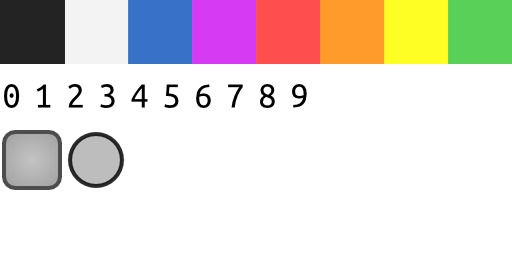
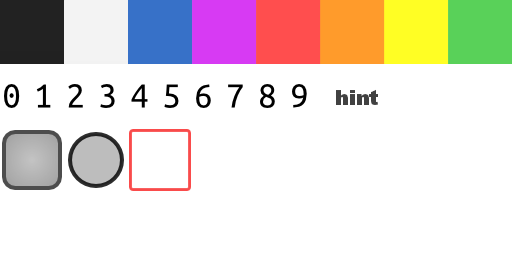
hint and ui modify

Changed region(s): [[0.25, 0.5, 0.375, 0.75], [0.6562, 0.3438, 0.75, 0.4062]]

diff --git a/app/src/board.js b/app/src/board.js
@@ -3,17 +3,19 @@ function Tile(board, color, i, j) {
     this.color = color;
     this.i = i;
     this.j = j;
+    this.highLight = null;
 }
 
 Tile.prototype.init = function(board) {
     var tile = this;
     var img = Stage.image(this.getImage()).pin({
-        handle: 0.5,
-        scale: 0.12
+        // handle: 0.5,
+        // scale: 0.12,
     }).on(Mouse.CLICK, function(point) {
         tile.click(tile);
+        tile.setHighLight(false);
     });
-    img.appendTo(board).offset(tile.i * 2 + 1, tile.j * 2 + 1);
+    img.appendTo(board);
     this.img = img;
 };
 
@@ -27,6 +29,16 @@ Tile.prototype.toggle = function() {
     this.updateView();
 };
 
+Tile.prototype.setHighLight = function(active) {
+    if (active) {
+        !this.highLight && (this.highLight = Stage.image("example:highLight").appendTo(this.img).scale(1.1).pin({"align":0.5}));
+    }
+    else if (this.highLight) {
+        this.img.remove(this.highLight);
+        this.highLight = null;
+    }
+}
+
 Tile.prototype.updateView = function() {
     this.img.image(this.getImage());
 };
@@ -36,21 +48,18 @@ Tile.prototype.getImage = function() {
 }
 
 function Board(stage, width, height, x, y) {
-    this.obj = Stage.create().appendTo(stage).pin({
-        width: width * 2,
-        height: height * 2,
+    this.obj = Stage.image('example:blue').appendTo(stage).pin({
         offsetX: x,
         offsetY: y,
-        scaleX: 0.8,
-        scaleY: 0.8,
-        align: 0.5
+        scale: 1,
+        align: 0.5,
     });
-    Stage.image('example:blue').appendTo(this.obj).pin({
-        alignX: 0.5,
-        alignY: 0.5,
+    this.board = Stage.create().appendTo(this.obj).pin({
+        width: this.obj.pin("width"),
+        height: this.obj.pin("height"),
+        align: 0.5,
         handleY: 0.5,
-        scaleX: 1.05 * width / 8,
-        scaleY: 1.05 * height / 8,
+        scale : 0.96,
     });
     this.width = width;
     this.height = height;
@@ -86,16 +95,28 @@ Board.prototype.setTile = function(i, j, tile) {
     this.tiles.push(tile);
 }
 
+Board.prototype.setHighLight = function(i, j, highLight) {
+    var tile = this.tilesMap[i + ":" + j];
+    tile && tile.setHighLight(highLight);
+}
+
 Board.prototype.initTiles = function() {
     for (var i = this.tiles.length - 1; i >= 0; --i) {
         this.tiles[i].img.remove();
     }
     this.tiles = [];
     this.tilesMap = {};
-    for (var i = 0; i < this.width; i++) {
-        for (var j = 0; j < this.height; j++) {
+    var spacing = 0.1;
+    var scale = 1 / (this.width + (this.width - 1) * spacing);
+    for (var i = 0; i < this.height; i++) {
+        for (var j = 0; j < this.width; j++) {
             var tile = new Tile(this, 1, i, j);
-            tile.init(this.obj);
+            tile.init(this.board);
+            tile.img.scale(scale);
+            var tw = tile.img.pin("width");
+            var x = scale * ((1 + spacing) * tw * tile.i);
+            var y = scale * ((1 + spacing) * tw * tile.j);
+            tile.img.offset(x, y);
             this.setTile(i, j, tile);
         }
     }

diff --git a/app/game.js b/app/game.js
@@ -1,6 +1,8 @@
 var Math = Stage.Math,
     Mouse = Stage.Mouse;
 
+DEBUG = false;
+
 function Game(stage, width, height) {
 
     this.leftBoard = new Board(stage, width, height, -8, 0);
@@ -16,6 +18,17 @@ function Game(stage, width, height) {
         offsetY: 0.5
     }).on(Mouse.CLICK, function() {
         game.start();
+    });
+
+    Stage.image('example:hint').appendTo(this.rightBoard.obj).pin({
+        alignX: 1,
+        alignY: 1,
+        handleY: 0,
+        offsetX: -2,
+        offsetY: 1,
+        scale : 0.15,
+    }).on(Mouse.CLICK, function() {
+        game.hintClick();
     });
 
     this.start = function() {
@@ -36,6 +49,20 @@ function Game(stage, width, height) {
     this.setPazzleClick = function(tile) {
         tile.toggle();
     }
+
+    this.hintClick = function() {
+        var solver = new Solver();
+        var n = 8;
+        var b = new Array(n * n);
+        b.fill(0);
+        for (var i = 0; i< this.leftBoard.tiles.length; ++i) {
+            b[i] = this.leftBoard.tiles[i].color == 2 ? 1 : 0;
+        }
+        var result = solver.solve(n, b);
+        for (var i = 0; i < result.length; ++i) {
+            this.rightBoard.tiles[i].setHighLight(result[i] == 1);
+        }
+    }
 }
 
 Stage(function(stage) {
@@ -49,11 +76,4 @@ Stage(function(stage) {
     var game = new Game(stage, width, height);
 
     game.start();
-
-    var solver = new Solver();
-    var n = 6;
-    var b = new Array(n * n);
-    b.fill(1) ;
-    solver.solve(n, b);
-
 });

diff --git a/app/src/solver.js b/app/src/solver.js
@@ -32,8 +32,10 @@ Solver.prototype.gauss = function(a, rows, cols) {
             }
         }
     }
-    for (var r = 0; r < rows; ++r) {
-        console.log(a[r].join(","));
+    if (DEBUG) {
+        for (var r = 0; r < rows; ++r) {
+            console.log(a[r].join(","));
+        }
     }
     // 反向回代
     var equations = rows;
@@ -79,13 +81,16 @@ Solver.prototype.solve = function (n, b) {
         if (j < n - 1) a[r][r + 1] = 1; // i * n + (j + 1)
         a[r][cols - 1] = b[r];
     }
-    for (var r = 0; r < rows; ++r) {
-        console.log(a[r].join(","));
+    if (DEBUG) {
+        for (var r = 0; r < rows; ++r) {
+            console.log(a[r].join(","));
+        }
+        console.log("");
     }
-    console.log("");
     var result = this.gauss(a, rows, cols);
     for (var i = 0; i < result.length; i += n) {
         var rr = result.slice(i, i + n);
         console.log(rr.join(","));
     }
+    return result;
 }

diff --git a/app/res/textures.js b/app/res/textures.js
@@ -45,7 +45,10 @@ Stage({
       '9' : { x : 9*8,  y : 20, width : 8,  height : 8 },
     },
 
+    hint : { x : 80, y : 20, width : 20, height : 10},
+
     box :      { x : 0,    y : 32, width : 16, height : 16, top : 4, bottom : 4, left : 4, right : 4},
-    circle :   { x : 16,   y : 32, width : 16, height : 16}
+    circle :   { x : 16,   y : 32, width : 16, height : 16},
+    highLight : { x : 2*16, y : 32, width : 16, height : 16}
   }
 });
